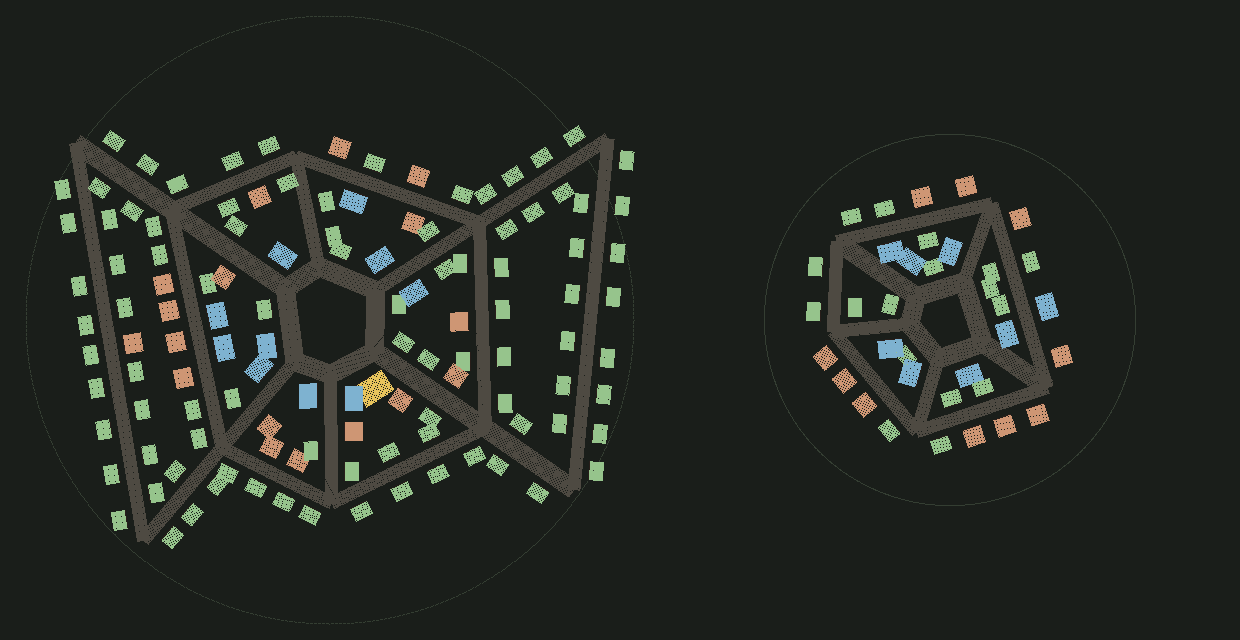
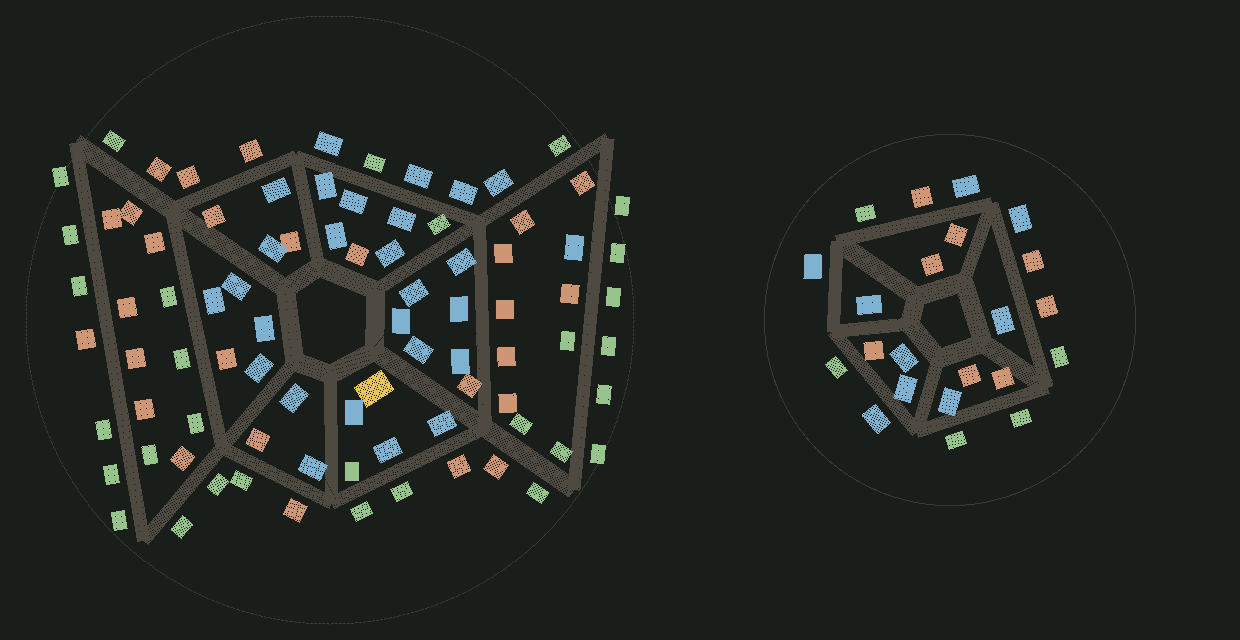
Districts, a road material of its own, and half as many buildings
Three things, and the first is a fault the screenshot named exactly.

THE ROADS WERE WEARING THE GRASS MATERIAL. `CoverMaterial` is the meadow's, and a
meadow material's whole job is to be DISPLACED - its shader bends every vertex away
from whatever is standing in it, which is what makes grass part as a warden walks
through it. Laying a road in it made the road part too: the paving pulled open
around the player and closed behind him. Reported as "the roads are odd and show
the grass where I walk", which is precisely what it was, except that nothing was
growing - measured, a town's ground is `Settled` to its rim with a cover density of
0.00. The grass WAS the road. Paving has its own material now, still a `Shaded` so
cloud shadows fall on a street like they fall on everything else, with the bending
off.

TOO MANY BUILDINGS, and the frontage rule is the knob: at 8.2 m the ranch's town
came to 311 buildings on a 130 m site, which is not a village but a terrace wrapped
four times round a square. At 13 m, with villages held to two rings rather than
three, it is 117. A city is 85 to 190 depending on its ground.

AND DISTRICTS, which is the research the user asked for and the thing all three
layouts so far were missing. Dimopoulos, who designs cities for games, and the
level-design reading on Breath of the Wild both come back to Kevin Lynch's five
elements of a legible place - paths, nodes, landmarks, districts, edges. My towns
[…]

diff --git a/src/world/town.rs b/src/world/town.rs
@@ -1,18 +1,41 @@
 //! How a settlement is laid out: streets, the plots between them, and what stands
 //! on each one.
 //!
+//! # Lynch's five, which is what every game city is built on
+//!
+//! Konstantinos Dimopoulos, who designs cities for games for a living, and the
+//! level-design reading on Breath of the Wild both come back to the same framework:
+//! Kevin Lynch's five elements of a legible place. A player builds a mental map out
+//! of exactly these, and a settlement missing any of them is one they get lost in:
+//!
+//!   * PATHS - routes that lead somewhere on purpose rather than petering out.
+//!   * NODES - focal points where people gather, spaced along the paths.
+//!   * LANDMARKS - distinctive things you can fix your position by. Placed BESIDE a
+//!     node, so the two reinforce each other: Death Mountain beside Goron City.
+//!   * DISTRICTS - areas that are internally consistent and different from their
+//!     neighbours, told apart by architectural scale, material and street layout.
+//!   * EDGES - boundaries that break continuity and separate one part from another.
+//!
+//! The other lesson from that reading is that LEGIBILITY BEATS REALISM. Breath of
+//! the Wild's districts are more sharply bounded than any real geography, on
+//! purpose, because a player who can read the world at a glance is worth more than
+//! one who could survey it.
+//!
+//! And a game city is SMALLER than the thing it stands for. Novigrad is presented
+//! as a trade capital of thirty thousand and is built at the size of a real small
+//! town - the density of things to look at is what sells it, not the acreage.
+//!
 //! # Roads, then parcels, then lots
 //!
-//! This is the standard pipeline and it is worth naming because every step of it
-//! exists for a reason the step before cannot supply:
+//! Which is the standard pipeline, and every step exists for a reason the step
+//! before cannot supply:
 //!
 //!   1. STREETS are laid first, because everything else is defined relative to
 //!      them. A plot is not a piece of ground, it is a piece of ground *with
 //!      frontage*.
 //!   2. The ground between streets is a PARCEL.
-//!   3. A parcel is cut into LOTS by recursive subdivision, sliced along its
-//!      shorter axis and stopped by rules: too small, too thin, or no longer
-//!      touching a street.
+//!   3. A parcel is cut into LOTS along its frontage, stopped by rules: too narrow,
+//!      or no longer touching a street.
 //!
 //! The alternative - scattering buildings on a disc and drawing paths afterwards -
 //! is what makes a procedural town read as a campsite. Buildings face the street
@@ -51,7 +74,13 @@ pub const SETBACK: f32 = 1.6;
 /// A cottage is 6 m across and wants a little air either side, so a strip narrower
 /// than this holds nothing. Measured as FRONTAGE rather than as area because that
 /// is what a lot on a street is sold by, and because depth is the parcel's to give.
-const A_FRONTAGE_IS_AT_LEAST: f32 = 8.2;
+///
+/// 13 m rather than the 8.2 it started at. At 8.2 the ranch's town came to THREE
+/// HUNDRED AND ELEVEN buildings on a 130 m site - which is not a village, it is a
+/// terrace wrapped four times round a square. The frontage rule is the density
+/// knob: widen the strips and the same streets carry fewer, larger plots with air
+/// between them.
+const A_FRONTAGE_IS_AT_LEAST: f32 = 13.0;
 
 /// How far a town reaches, as a share of the ground levelled for it.
 ///
@@ -67,8 +96,76 @@ const A_FRONTAGE_IS_AT_LEAST: f32 = 8.2;
 /// floating over it.
 const FILLS: f32 = 1.15;
 
+/// A part of a town that is internally consistent and unlike its neighbours.
+///
+/// Lynch's fourth element, and the one my towns had none of: every building was
+/// picked by distance from the middle and a dice roll, so a street looked the same
+/// wherever you stood in it and there was nothing to tell one part of a town from
+/// another. Districts are told apart by what is BUILT in them, which is the
+/// cheapest of the three levers the reading names - architectural scale, material,
+/// and street layout - and the one that shows from furthest away.
+#[derive(Clone, Copy, PartialEq, Eq, Hash, Debug)]
+pub enum District {
+    /// Around the square: trade. Shops, and the guild hall on the square itself.
+    Market,
+    /// The working quarter: townhouses over workshops, tight to the street.
+    Crafts,
+    /// The edge, where the town thins out into cottages and gardens.
+    Outskirts,
+}
+
+impl District {
+    /// The district a place belongs to.
+    ///
+    /// By RING rather than by a smooth falloff, and that is the legibility lesson
+    /// applied: a boundary you can see is worth more than a gradient that is more
+    /// truthful. A player should be able to stand somewhere and know which part of
+    /// the town they are in.
+    fn of(out: f32, square: f32, band: f32) -> District {
+        if out < square + band * 0.75 {
+            District::Market
+        } else if out < square + band * 1.9 {
+            District::Crafts
+        } else {
+            District::Outskirts
+        }
+    }
+
+    /// What is built here, given a roll.
+    fn builds(self, roll: f32) -> Building {
+        match self {
+            // Trade, and a few homes over the shops.
+            District::Market => {
+                if roll < 0.62 {
+                    Building::Shop
+                } else {
+                    Building::Townhouse
+                }
+            }
+            // The workshops: mostly two-storey, some trade, few cottages.
+            District::Crafts => {
+                if roll < 0.55 {
+                    Building::Townhouse
+                } else if roll < 0.72 {
+                    Building::Shop
+                } else {
+                    Building::Cottage
+                }
+            }
+            // Homes and gardens.
+            District::Outskirts => {
+                if roll < 0.78 {
+                    Building::Cottage
+                } else {
+                    Building::Townhouse
+                }
+            }
+        }
+    }
+}
+
 /// What stands on a plot.
-#[derive(Clone, Copy, PartialEq, Eq, Debug)]
+#[derive(Clone, Copy, PartialEq, Eq, Hash, Debug)]
 pub enum Building {
     Cottage,
     Townhouse,
@@ -265,7 +362,11 @@ pub fn lay_out(site: &Site, approach: Vec2, seed: u32) -> Layout {
     let depth = (reach * 0.16).clamp(9.0, 15.0);
     // One ring per band of blocks, out as far as the town reaches.
     let band = depth * 2.0 + LANE_WIDE + SETBACK * 2.0;
-    let rings = (((reach - square) / band).floor() as usize).clamp(1, 3);
+    // A city may have three bands of blocks; a village has one or two. A place with
+    // forty houses does not need three ring roads, and giving it them is what turned
+    // the ranch's town into a small city.
+    let most = if site.city { 3 } else { 2 };
+    let rings = (((reach - square) / band).floor() as usize).clamp(1, most);
 
     // The radials. One PAIR of them is the road that got here, carried straight
     // through the square and out the other side - a town on a road has that road
@@ -431,7 +532,7 @@ pub fn lay_out(site: &Site, approach: Vec2, seed: u32) -> Layout {
         if !lot.has_frontage() {
             continue;
         }
-        let what = what_stands_here(index, lot, site.at, seed);
+        let what = what_stands_here(index, lot, site.at, square, band, seed);
         let Some(what) = what else { continue };
 
         // Placed against the street rather than in the middle of its lot.
@@ -518,25 +619,25 @@ fn subdivide(parcel: Parcel, seed: u32, depth: u32, into: &mut Vec<Parcel>) {
 /// takes the best lot of all. Cottages go where the town thins out. Doing this by
 /// distance from the centre rather than by a dice roll is most of what makes a
 /// generated town read as a place rather than as a scatter.
-fn what_stands_here(index: usize, lot: &Parcel, middle: Vec2, seed: u32) -> Option<Building> {
+fn what_stands_here(
+    index: usize,
+    lot: &Parcel,
+    middle: Vec2,
+    square: f32,
+    band: f32,
+    seed: u32,
+) -> Option<Building> {
     let roll = unit(seed.wrapping_add(index as u32 * 131), 11);
     let fits = |what: Building| {
         let wants = what.wants();
         lot.frontage >= wants.x && lot.depth >= wants.y
     };
 
-    // TRADE ON THE SQUARE, HOMES ON THE EDGE. The medieval rule and the obvious one:
-    // the ground with the most feet on it carries the shops and the inns, and the
-    // houses are further out. Sorted by distance from the middle rather than rolled,
-    // so a town has a centre rather than a scatter.
-    let out = lot.at.distance(middle);
-    let wanted = if out < 34.0 && roll < 0.62 {
-        Building::Shop
-    } else if out < 58.0 && roll < 0.55 {
-        Building::Townhouse
-    } else {
-        Building::Cottage
-    };
+    // TRADE ON THE SQUARE, WORKSHOPS BEHIND IT, HOMES AT THE EDGE. The medieval
+    // rule, the obvious one, and Lynch's districts all at once: the ground with the
+    // most feet on it carries the trade, and what a place is FOR is what tells one
+    // part of a town from another.
+    let wanted = District::of(lot.at.distance(middle), square, band).builds(roll);
     if fits(wanted) {
         Some(wanted)
     } else if fits(Building::Cottage) {
@@ -689,6 +790,36 @@ const ROAD_STEPS_EVERY: f32 = 2.5;
 const ROAD_EARTH: [f32; 4] = [0.42, 0.36, 0.29, 1.0];
 const ROAD_KERB: [f32; 4] = [0.52, 0.50, 0.46, 1.0];
 
+/// The material a street's paving wears.
+///
+/// # Why it cannot borrow the ground cover's
+///
+/// It did, and the roads came out writhing. `CoverMaterial` is the GRASS material,
+/// and the grass material's whole job is to be displaced: its shader bends every
+/// vertex away from whatever is standing in it, which is what makes a meadow part
+/// as a warden walks through it. Laying a road in it made the road part too - the
+/// paving pulled open around the player and shut behind him, which was reported,
+/// exactly and correctly, as "the roads are odd and show the grass where I walk".
+///
+/// Nothing was growing there at all: measured, a town's ground is `Settled` out to
+/// its rim with a cover density of 0.00. The grass was the road.
+///
+/// So the paving has its own material, with the bending switched off. It is still a
+/// `Shaded`, because the cloud shadows have to fall on a street like they fall on
+/// everything else.
+#[derive(Resource)]
+pub struct RoadSurface(pub Handle<crate::shade::Shaded>);
+
+fn mix_the_road_surface(mut commands: Commands, mut materials: ResMut<Assets<crate::shade::Shaded>>) {
+    let surface = materials.add(crate::shade::shaded(StandardMaterial {
+        base_color: Color::WHITE,
+        perceptual_roughness: 0.96,
+        reflectance: 0.02,
+        ..default()
+    }));
+    commands.insert_resource(RoadSurface(surface));
+}
+
 /// Builds one town's streets as a mesh laid on the ground.
 fn pave(streets: &[Street], terrain: &crate::world::terrain::Terrain, low: Vec2) -> Mesh {
     let mut places: Vec<[f32; 3]> = Vec::new();
@@ -761,7 +892,7 @@ pub fn raise_the_towns(
     mut commands: Commands,
     assets: Res<AssetServer>,
     mut meshes: ResMut<Assets<Mesh>>,
-    surface: Option<Res<crate::world::cover::CoverMaterial>>,
+    surface: Option<Res<RoadSurface>>,
     terrain: Res<TerrainSource>,
     mut built: ResMut<Built>,
     anchors: Query<&GlobalTransform, With<StreamAnchor>>,
@@ -883,6 +1014,7 @@ pub struct TownPlugin;
 impl Plugin for TownPlugin {
     fn build(&self, app: &mut App) {
         app.init_resource::<Built>()
+            .add_systems(Startup, mix_the_road_surface)
             .add_systems(Update, raise_the_towns.run_if(crate::build::a_world_is_up));
     }
 }
@@ -1144,6 +1276,7 @@ mod tests {
         app.insert_state(crate::states::AppState::Playing);
         app.init_asset::<Scene>();
         app.init_asset::<Mesh>();
+        app.init_asset::<crate::shade::Shaded>();
         app.init_asset::<bevy::gltf::Gltf>();
         app.add_plugins(TownPlugin);
 
@@ -1219,6 +1352,106 @@ mod tests {
         assert!(
             worst < 0.01,
             "the paving stands {worst:.2} m off the ground it is laid on"
+        );
+    }
+
+#[test]
+    #[ignore = "a measurement of the real ground"]
+    fn what_the_town_ground_is() {
+        use crate::world::terrain::Biome;
+        let terrain = crate::world::terrain::Terrain::new();
+        let plan = terrain.plan();
+        let climate = terrain.climate();
+        let site = plan.sites()[0];
+        let layout = lay_out(&site, plan.approach(site.at), crate::config::WORLD_SEED);
+        println!("site at ({:.0},{:.0}) r={:.0}, {} buildings, {} streets",
+            site.at.x, site.at.y, site.radius, layout.plots.len(), layout.streets.len());
+
+        let street = layout.streets[0];
+        let mid = (street.from + street.to) * 0.5;
+        for (label, at) in [
+            ("on a street ", mid),
+            ("5 m off it  ", mid + (street.to - street.from).perp().normalize() * 5.0),
+            ("20 m off it ", mid + (street.to - street.from).perp().normalize() * 20.0),
+            ("site middle ", site.at),
+            ("120 m out   ", site.at + Vec2::new(120.0, 0.0)),
+        ] {
+            let ground = terrain.ground_at(at.x, at.y);
+            let biome = Biome::of(ground, &climate);
+            let thick = terrain_core::cover::density(
+                biome,
+                Biome::confidence(ground, &climate),
+                terrain_core::cover::patch(biome, at),
+            );
+            println!(
+                "  {label}: {biome:?}  levelled {:.2}  height {:.2}  cover {thick:.2}",
+                ground.levelled, ground.height
+            );
+        }
+    }
+
+/// A town has districts you could tell apart standing in them.
+    ///
+    /// Lynch's fourth element, and the test is the point of it: a district that is
+    /// not DIFFERENT from its neighbours is not a district, it is a name. So this
+    /// asks what is actually built in each ring and refuses a town where the answer
+    /// is the same everywhere - which is exactly what the first three layouts were,
+    /// buildings picked by a dice roll and a distance.
+    #[test]
+    fn a_town_has_districts_and_they_do_not_look_alike() {
+        let site = a_site(true, 190.0);
+        let layout = lay_out(&site, Vec2::X, 9);
+
+        let square = (190.0 * FILLS * 0.19f32).clamp(11.0, 17.0);
+        let depth = (190.0 * FILLS * 0.16f32).clamp(9.0, 15.0);
+        let band = depth * 2.0 + LANE_WIDE + SETBACK * 2.0;
+
+        let mut counts = std::collections::HashMap::new();
+        for plot in &layout.plots {
+            let district = District::of(plot.at.distance(site.at), square, band);
+            *counts
+                .entry((district, plot.what))
+                .or_insert(0usize) += 1;
+        }
+
+        let share = |district: District, what: Building| {
+            let here: usize = counts
+                .iter()
+                .filter(|((d, _), _)| *d == district)
+                .map(|(_, n)| *n)
+                .sum();
+            let this = counts.get(&(district, what)).copied().unwrap_or(0);
+            if here == 0 { 0.0 } else { this as f32 / here as f32 }
+        };
+
+        // Every district has to exist at all.
+        for district in [District::Market, District::Crafts, District::Outskirts] {
+            let here: usize = counts
+                .iter()
+                .filter(|((d, _), _)| *d == district)
+                .map(|(_, n)| *n)
+                .sum();
+            assert!(here > 3, "{district:?} has {here} buildings in it");
+        }
+
+        // And they have to be DIFFERENT. Trade at the middle, homes at the edge -
+        // if a shop is as likely on the outskirts as on the square then the town
+        // has one district wearing three names.
+        let shops_in = share(District::Market, Building::Shop);
+        let shops_out = share(District::Outskirts, Building::Shop);
+        let homes_in = share(District::Market, Building::Cottage);
+        let homes_out = share(District::Outskirts, Building::Cottage);
+        println!(
+            "market: {:.0}% shops, {:.0}% cottages | outskirts: {:.0}% shops, {:.0}% cottages",
+            shops_in * 100.0, homes_in * 100.0, shops_out * 100.0, homes_out * 100.0
+        );
+        assert!(
+            shops_in > shops_out + 0.3,
+            "shops are {shops_in:.2} of the market and {shops_out:.2} of the outskirts"
+        );
+        assert!(
+            homes_out > homes_in + 0.3,
+            "cottages are {homes_out:.2} of the outskirts and {homes_in:.2} of the market"
         );
     }
 
